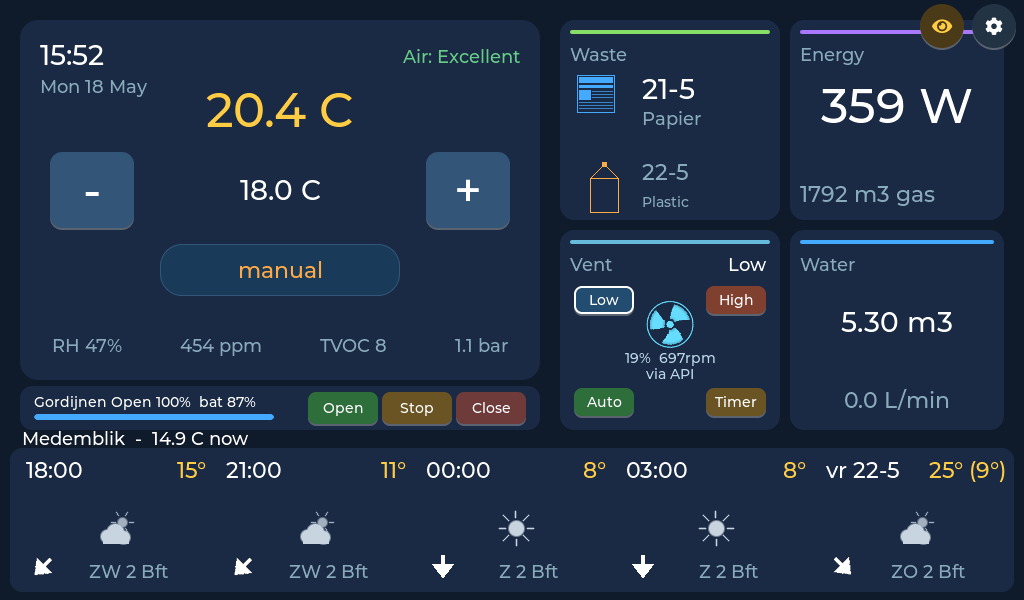
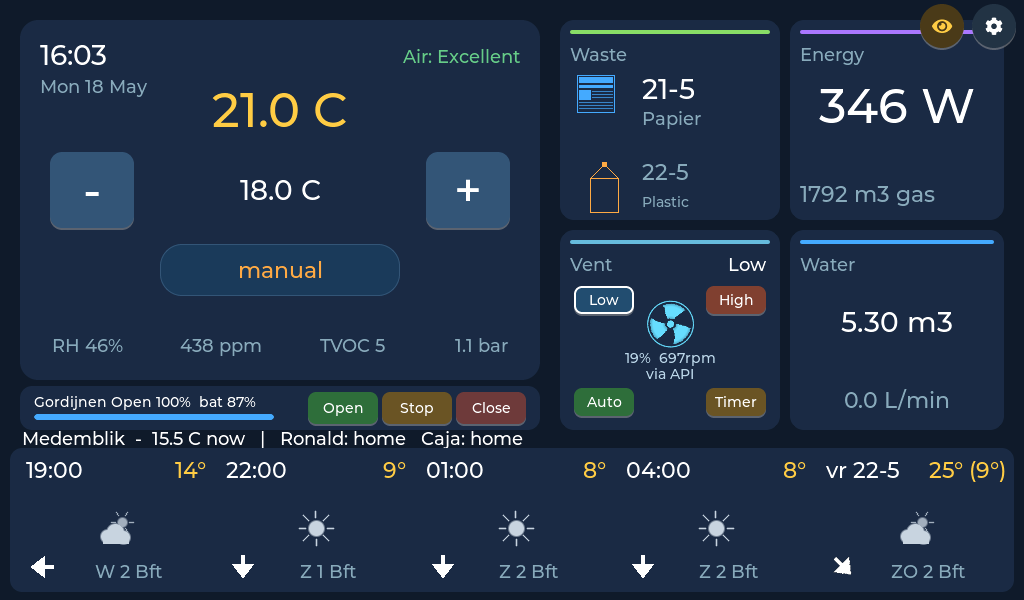
Life360: show member A + member B location on the home + dim header line
The HA poller now picks up device_tracker.life360_member_a
and device_tracker.life360_member_b every cycle. Their state is
compressed to a short string suitable for inline display:
  - "home" while the entity state == "home"
  - first two comma-separated tokens from the "address" attribute
    otherwise (e.g. "12 Voorstraat, Hoorn")
  - falls back to the bare state if no address is present

Home tile + dim screen city header now reads
  "<town> - 15.5 C now   |   member A: home   member B: home"
and updates in place on the next HA poll (~10 s cadence, ~2 s while
the curtain is moving — Life360 is on the same loop).

diff --git a/lvgl_ui_recovered/src/homeassistant.c b/lvgl_ui_recovered/src/homeassistant.c
@@ -225,6 +225,41 @@ void ha_light_toggle_async(const char * entity_id) {
 void ha_lights_all_on_async(void)  { fire_light_action("turn_on",  "light.all_lights"); }
 void ha_lights_all_off_async(void) { fire_light_action("turn_off", "light.all_lights"); }
 
+/* Fetch a device_tracker.life360_* and compress to a short display string.
+ *   home  → "home"
+ *   else  → "<street>, <city>" trimmed from the "address" attribute, or
+ *           the bare state if no address is available. */
+static void poll_life360_one(const char * entity_id, char * out, size_t outsz) {
+    char body[1536];
+    if (ha_get_state(entity_id, body, sizeof(body)) != 0) return;
+    char state[24] = {0};
+    extract_str(body, "state", state, sizeof(state));
+    if (strcmp(state, "home") == 0) {
+        snprintf(out, outsz, "home");
+        return;
+    }
+    /* Try address (Life360 attribute) — trim long zip+region tails so the
+     * inline display stays short. */
+    char addr[160] = {0};
+    extract_str(body, "address", addr, sizeof(addr));
+    if (addr[0]) {
+        /* Keep only "street, city" if there are >= 2 commas in the field. */
+        char * c1 = strchr(addr, ',');
+        char * c2 = c1 ? strchr(c1 + 1, ',') : NULL;
+        if (c2) *c2 = 0;
+        snprintf(out, outsz, "%s", addr);
+    } else if (state[0]) {
+        snprintf(out, outsz, "%s", state);
+    }
+}
+
+static void poll_life360(void) {
+    poll_life360_one("device_tracker.life360_ronald_brakeboer",
+                     ha_state.loc_ronald, sizeof(ha_state.loc_ronald));
+    poll_life360_one("device_tracker.life360_caja_brakeboer",
+                     ha_state.loc_caja,   sizeof(ha_state.loc_caja));
+}
+
 static void poll_once(void) {
     static int miss = 0;
     char body[1024];
@@ -265,6 +300,7 @@ static void * ha_thread(void * arg) {
     while (1) {
         poll_once();
         poll_lights();
+        poll_life360();
         /* Speed up the poll while the curtain is actively moving so the
          * spinner / position bar feel live. Back off to the normal 10 s
          * cadence as soon as it parks. */

diff --git a/lvgl_ui_recovered/src/screen_home.c b/lvgl_ui_recovered/src/screen_home.c
@@ -819,14 +819,27 @@ static void refresh_cb(lv_timer_t * t) {
         lv_label_set_text_fmt(lbl_outside_main, "%.1f C",
                               weather_state.current_temp);
     }
-    /* "Medemblik · 14.7 C" header above the forecast strip. */
+    /* "Medemblik - 14.7 C now   |   Ronald: home  Caja: home" header
+     * above the forecast strip. Life360 strings come from HA poller —
+     * stay blank if Life360 isn't available so the city still reads. */
     if (lbl_forecast_city) {
         const char * city = settings.weather_location[0] ? settings.weather_location : "Forecast";
+        char wx[64];
         if (weather_state.connected)
-            lv_label_set_text_fmt(lbl_forecast_city, "%s  -  %.1f C now",
-                                  city, weather_state.current_temp);
+            snprintf(wx, sizeof wx, "%s  -  %.1f C now",
+                     city, weather_state.current_temp);
         else
-            lv_label_set_text(lbl_forecast_city, city);
+            snprintf(wx, sizeof wx, "%s", city);
+
+        if (ha_state.loc_ronald[0] || ha_state.loc_caja[0]) {
+            lv_label_set_text_fmt(lbl_forecast_city,
+                "%s   |   Ronald: %s   Caja: %s",
+                wx,
+                ha_state.loc_ronald[0] ? ha_state.loc_ronald : "?",
+                ha_state.loc_caja[0]   ? ha_state.loc_caja   : "?");
+        } else {
+            lv_label_set_text(lbl_forecast_city, wx);
+        }
     }
 
     /* Forecast band — splat-recovery left two more copies of this

diff --git a/lvgl_ui_recovered/src/screen_dim.c b/lvgl_ui_recovered/src/screen_dim.c
@@ -7,6 +7,7 @@
 #include "boxtalk.h"
 #include "settings.h"
 #include "homewizard.h"
+#include "homeassistant.h"
 #include "packages.h"
 #include "weather.h"
 #include "wastecollection.h"
@@ -236,14 +237,24 @@ static void refresh_cb(lv_timer_t * t) {
     }
     /* Forecast strip — 3-hourly to match home screen. Falls back to daily
      * if the hourly feed hasn't populated yet (first 30 s after boot). */
-    /* City header — same as home tile, sits just above the forecast
-     * strip. Mirrors the format the home screen uses. */
+    /* City header — same as home tile, including the Life360 locations
+     * for Ronald + Caja so dim is just as informative. */
     if (dim_lbl_city) {
         if (settings.show_dim_weather && weather_state.connected) {
             const char * city = settings.weather_location[0]
                                 ? settings.weather_location : "Forecast";
-            lv_label_set_text_fmt(dim_lbl_city, "%s  -  %.1f C now",
-                                  city, weather_state.current_temp);
+            char wx[80];
+            snprintf(wx, sizeof wx, "%s  -  %.1f C now",
+                     city, weather_state.current_temp);
+            if (ha_state.loc_ronald[0] || ha_state.loc_caja[0]) {
+                lv_label_set_text_fmt(dim_lbl_city,
+                    "%s   |   Ronald: %s   Caja: %s",
+                    wx,
+                    ha_state.loc_ronald[0] ? ha_state.loc_ronald : "?",
+                    ha_state.loc_caja[0]   ? ha_state.loc_caja   : "?");
+            } else {
+                lv_label_set_text(dim_lbl_city, wx);
+            }
             lv_obj_clear_flag(dim_lbl_city, LV_OBJ_FLAG_HIDDEN);
         } else {
             lv_obj_add_flag(dim_lbl_city, LV_OBJ_FLAG_HIDDEN);

diff --git a/lvgl_ui_recovered/src/homeassistant.h b/lvgl_ui_recovered/src/homeassistant.h
@@ -15,6 +15,11 @@ typedef struct {
     volatile int   curtain_is_closed;  /* 0/1 (is_closed attr)           */
     volatile int   curtain_battery;    /* % — min of the two child curtains */
     char           curtain_state[16];  /* "open" / "closed" / "opening" / "closing" / "unknown" */
+    /* Life360 location for the two people we care about. Short string
+     * suitable for inline display: "home" when state == "home", else
+     * "<street>, <city>" trimmed from the address attribute. */
+    char           loc_ronald[64];
+    char           loc_caja[64];
 } ha_state_t;
 
 extern ha_state_t ha_state;